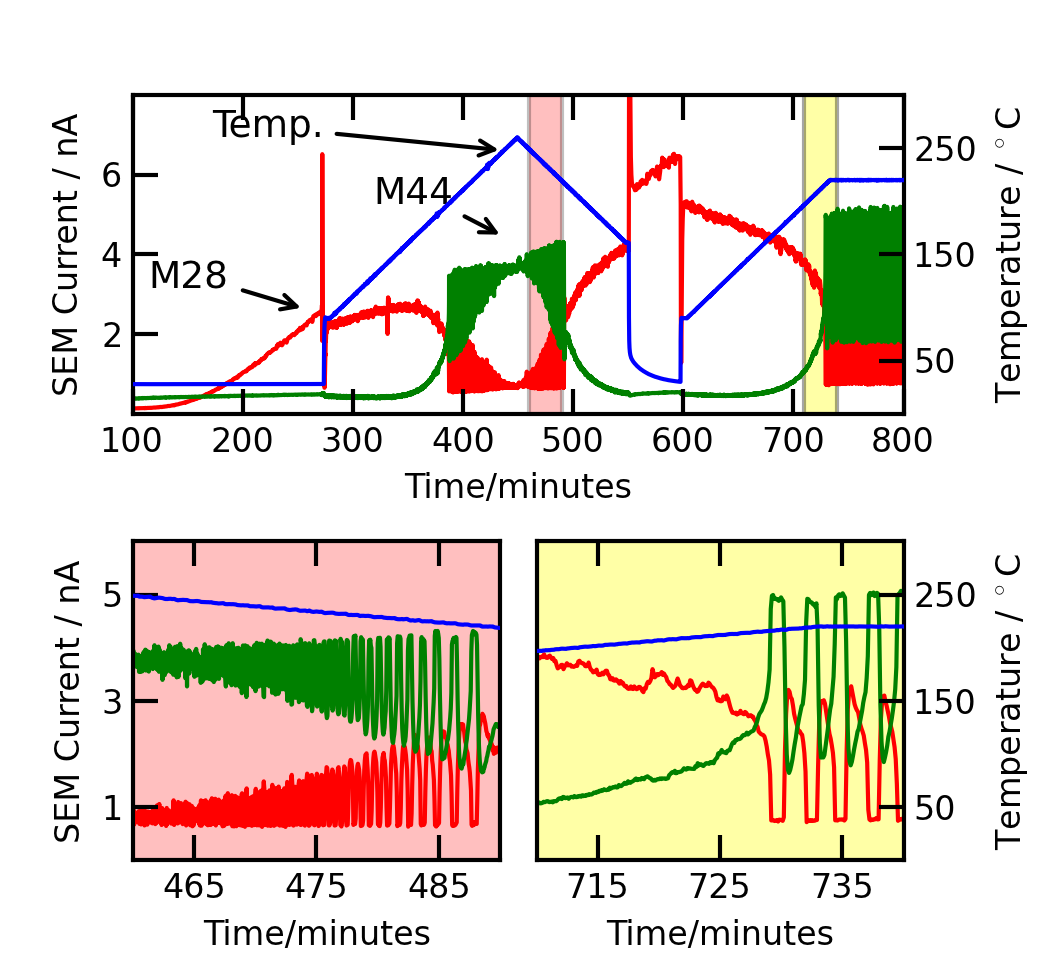
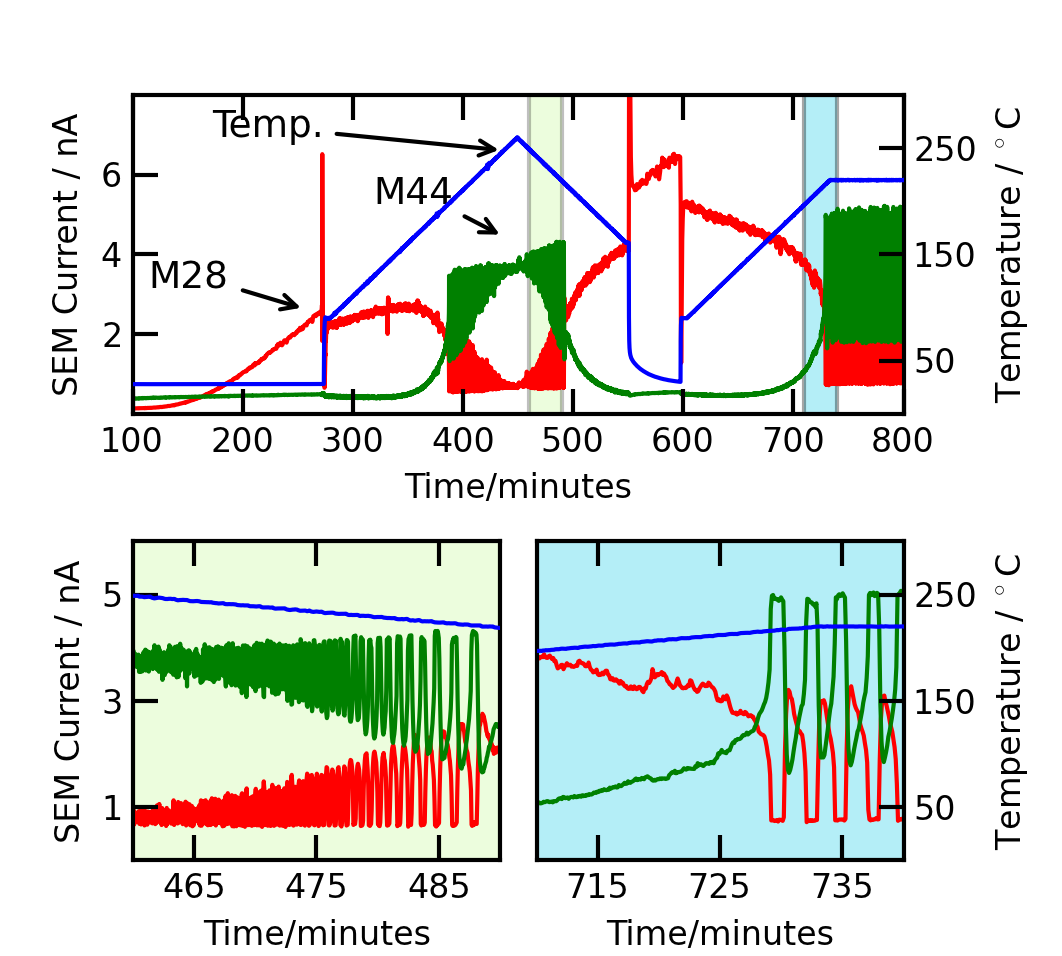
Spiced up the colors on the initial_treatment figure

diff --git a/python_figures/initial_treatment.py b/python_figures/initial_treatment.py
@@ -49,8 +49,8 @@ axis = plt.subplot(gs[0, :])
 #axis = fig.add_subplot(2,2,1)
 
 
-p = axis.axvspan(460, 490, facecolor='red', alpha=0.25)
-p = axis.axvspan(710, 740, facecolor='yellow', alpha=0.35)
+p = axis.axvspan(460, 490, facecolor='#b6fa77', alpha=0.25)
+p = axis.axvspan(710, 740, facecolor='#28cfe9', alpha=0.35)
 axis.plot(data['M28'][:,0], data['M28'][:,1]*1e9, 'r-')
 axis.plot(data['M44'][:,0], data['M44'][:,1]*1e9, 'g-')
 axis.set_ylim(0,8)
@@ -80,7 +80,7 @@ axis.set_xlabel('Time/minutes', fontsize=8)
 
 
 axis = plt.subplot(gs[1,0])
-p = axis.axvspan(460, 490, facecolor='red', alpha=0.25)
+p = axis.axvspan(460, 490, facecolor='#b6fa77', alpha=0.25)
 axis.plot(data['M28'][:,0], data['M28'][:,1]*1e9, 'r-')
 axis.plot(data['M44'][:,0], data['M44'][:,1]*1e9, 'g-')
 axis.set_ylim(0,6)
@@ -102,7 +102,7 @@ axis.grid(False)
 
 axis = plt.subplot(gs[1,1])
 #axis = fig.add_subplot(2,2,1)
-p = axis.axvspan(710, 740, facecolor='yellow', alpha=0.35)
+p = axis.axvspan(710, 740, facecolor='#28cfe9', alpha=0.35)
 axis.plot(data['M28'][:,0], data['M28'][:,1]*1e9, 'r-')
 axis.plot(data['M44'][:,0], data['M44'][:,1]*1e9, 'g-')
 axis.set_ylim(0,6)
